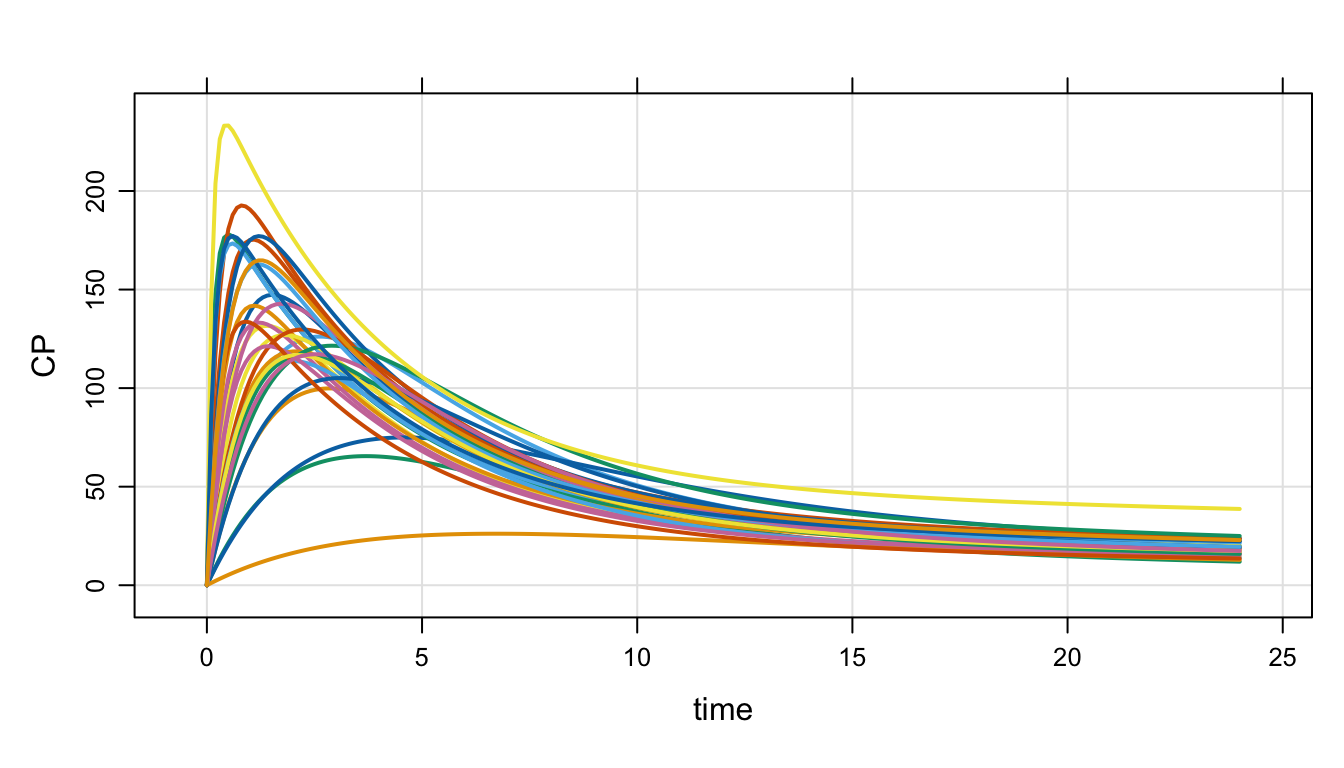
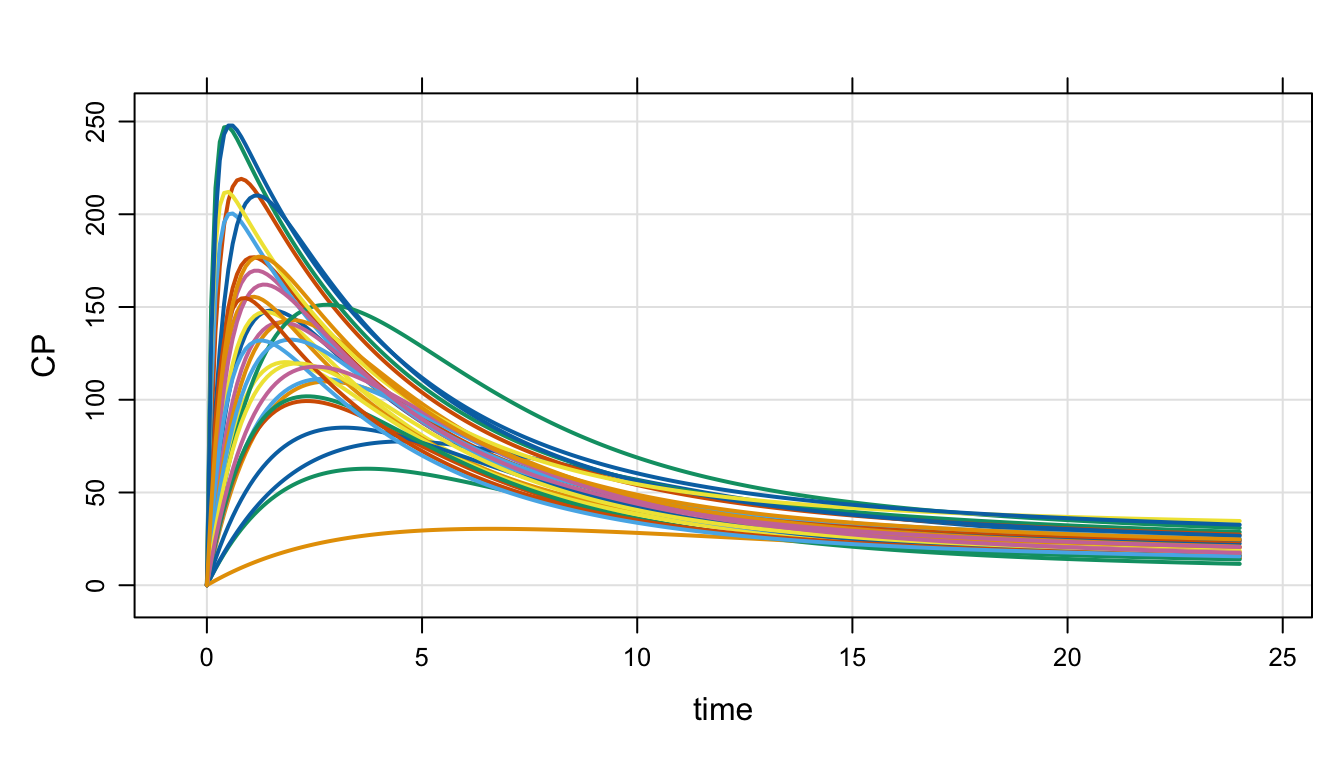
update book build

Changed region(s): [[0.0625, 0.1562, 0.9688, 0.75], [0.0625, 0.2188, 0.0938, 0.3125], [0.0625, 0.125, 0.0938, 0.1875]]

diff --git a/docs/replicate.html b/docs/replicate.html
@@ -343,12 +343,12 @@ pre > code.sourceCode > span > a:first-child::before { text-decoration: underlin
 <div class="sourceCode cell-code" id="cb8"><pre class="sourceCode r code-with-copy"><code class="sourceCode r"><span id="cb8-1"><a href="#cb8-1" aria-hidden="true" tabindex="-1"></a><span class="fu">sim</span>(<span class="dv">2</span>, mod, data) <span class="sc">%&gt;%</span> <span class="fu">filter</span>(TIME <span class="sc">%in%</span> <span class="fu">c</span>(<span class="dv">0</span>,<span class="dv">24</span>)) <span class="sc">%&gt;%</span> <span class="fu">head</span>()</span></code><button title="Copy to Clipboard" class="code-copy-button"><i class="bi"></i></button></pre></div>
 <div class="cell-output cell-output-stdout">
 <pre><code>  ID TIME       CL     IPRED         Y    WT DOSE irep
-1  1    0 4.918962  52.82136  48.23129 71.62   10    2
-2  1   24 4.918962  52.82136  45.92708 71.62   10    2
-3  2    0 6.242479 101.26773  99.91396 71.62   25    2
-4  2   24 6.242479 101.26773  91.35761 71.62   25    2
-5  3    0 2.037665 125.38161 121.74427 59.74   10    2
-6  3   24 2.037665 125.38161 114.49744 59.74   10    2</code></pre>
+1  1    0 4.145285  50.60451  63.50874 72.53   10    2
+2  1   24 4.145285  50.60451  36.33340 72.53   10    2
+3  2    0 2.124093 370.72296 369.87872 72.53   25    2
+4  2   24 2.124093 370.72296 348.49494 72.53   25    2
+5  3    0 3.884892  69.18339  48.38359 68.31   10    2
+6  3   24 3.884892  69.18339  57.88598 68.31   10    2</code></pre>
 </div>
 </div>
 <p>Now, call <code>lapply()</code> a simulate the desired number of replicates, setting the seed first to ensure reproducibility</p>
@@ -398,12 +398,12 @@ pre > code.sourceCode > span > a:first-child::before { text-decoration: underlin
 <pre><code># A tibble: 6 × 3
    irep  DOSE Median
   &lt;int&gt; &lt;dbl&gt;  &lt;dbl&gt;
-1     1    10   83.0
-2     1    25  206. 
-3     2    10   85.4
-4     2    25  206. 
-5     3    10   83.7
-6     3    25  214. </code></pre>
+1     1    10   82.8
+2     1    25  210. 
+3     2    10   84.5
+4     2    25  207. 
+5     3    10   86.1
+6     3    25  209. </code></pre>
 </div>
 </div>
 </section>
@@ -511,16 +511,16 @@ pre > code.sourceCode > span > a:first-child::before { text-decoration: underlin
 <pre><code># A tibble: 86,000 × 8
       ID  TIME    CL IPRED     Y    WT  DOSE  irep
    &lt;dbl&gt; &lt;dbl&gt; &lt;dbl&gt; &lt;dbl&gt; &lt;dbl&gt; &lt;dbl&gt; &lt;dbl&gt; &lt;dbl&gt;
- 1     1   0    2.40  120.  121.  71.6    10    23
- 2     1   0.1  2.40  133.  149.  71.6    10    23
- 3     1   0.2  2.40  145.  103.  71.6    10    23
- 4     1   0.3  2.40  156.  174.  71.6    10    23
- 5     1   0.4  2.40  165.  144.  71.6    10    23
- 6     1   0.5  2.40  174.  215.  71.6    10    23
- 7     1   0.6  2.40  182.  119.  71.6    10    23
- 8     1   0.7  2.40  190.  226.  71.6    10    23
- 9     1   0.8  2.40  196.  112.  71.6    10    23
-10     1   0.9  2.40  202.  226.  71.6    10    23
+ 1     1   0    2.08  146.  147.  72.5    10    23
+ 2     1   0.1  2.08  159.  178.  72.5    10    23
+ 3     1   0.2  2.08  170.  121.  72.5    10    23
+ 4     1   0.3  2.08  181.  203.  72.5    10    23
+ 5     1   0.4  2.08  190.  166.  72.5    10    23
+ 6     1   0.5  2.08  199.  246.  72.5    10    23
+ 7     1   0.6  2.08  207.  136.  72.5    10    23
+ 8     1   0.7  2.08  215.  256.  72.5    10    23
+ 9     1   0.8  2.08  221.  126.  72.5    10    23
+10     1   0.9  2.08  227.  253.  72.5    10    23
 # ℹ 85,990 more rows</code></pre>
 </div>
 </div>

diff --git a/docs/model-object.html b/docs/model-object.html
@@ -375,7 +375,7 @@ pre > code.sourceCode > span > a:first-child::before { text-decoration: underlin
 -----------------  source: test.mod  -----------------
 
   project: /Users/kyleb/git...ok/book-model
-  shared object: test_mod-so-176722038dd98 
+  shared object: test_mod-so-3fd93c203d08 
 
   time:          start: 0 end: 24 delta: 1
                  add: &lt;none&gt;
@@ -640,10 +640,10 @@ $project
 [1] "/Users/kyleb/git/kylebaron/intro-to-mrgsolve-uofm/book/book-model"
 
 $soloc
-[1] "/private/var/folders/zv/v6tkdhrn1_bb1ndrc0c0j31w0000gp/T/RtmpRLRYH8/mrgsolve-so-1.5.1.9001-aarch64-apple-darwin20/test_mod"
+[1] "/private/var/folders/zv/v6tkdhrn1_bb1ndrc0c0j31w0000gp/T/RtmpXovInx/mrgsolve-so-1.5.1.9003-aarch64-apple-darwin20/test_mod"
 
 $sodll
-[1] "/private/var/folders/zv/v6tkdhrn1_bb1ndrc0c0j31w0000gp/T/RtmpRLRYH8/mrgsolve-so-1.5.1.9001-aarch64-apple-darwin20/test_mod/test_mod-so-176722038dd98.so"
+[1] "/private/var/folders/zv/v6tkdhrn1_bb1ndrc0c0j31w0000gp/T/RtmpXovInx/mrgsolve-so-1.5.1.9003-aarch64-apple-darwin20/test_mod/test_mod-so-3fd93c203d08.so"
 
 $cfile
 [1] "/Users/kyleb/git/kylebaron/intro-to-mrgsolve-uofm/book/book-model/test.mod"
@@ -662,10 +662,10 @@ $shlib$compiled
 [1] TRUE
 
 $shlib$version
-[1] '1.5.1.9001'
+[1] '1.5.1.9003'
 
 $shlib$source
-[1] "/private/var/folders/zv/v6tkdhrn1_bb1ndrc0c0j31w0000gp/T/RtmpRLRYH8/mrgsolve-so-1.5.1.9001-aarch64-apple-darwin20/test_mod/test_mod-mread-source.cpp"
+[1] "/private/var/folders/zv/v6tkdhrn1_bb1ndrc0c0j31w0000gp/T/RtmpXovInx/mrgsolve-so-1.5.1.9003-aarch64-apple-darwin20/test_mod/test_mod-mread-source.cpp"
 
 $shlib$neq
 [1] 2
@@ -787,7 +787,7 @@ $hmax
 [1] 0
 
 $envir
-&lt;environment: 0x11b8acf20&gt;
+&lt;environment: 0x10cf6a8d0&gt;
 
 $plugins
 [1] "base"

diff --git a/docs/data-set.html b/docs/data-set.html
@@ -516,12 +516,12 @@ CL Q V2 V3 KA ETA(1) ETA(2) ETA(3) IPRED</code></pre>
 <span id="cb26-3"><a href="#cb26-3" aria-hidden="true" tabindex="-1"></a><span class="fu">head</span>(idata)</span></code><button title="Copy to Clipboard" class="code-copy-button"><i class="bi"></i></button></pre></div>
 <div class="cell-output cell-output-stdout">
 <pre><code>  ID        WT
-1  1  69.77994
-2  2  85.60722
-3  3 108.33677
-4  4  78.46498
-5  5  66.92838
-6  6  61.81225</code></pre>
+1  1 101.70618
+2  2  84.92973
+3  3  50.73833
+4  4  79.50030
+5  5  86.58689
+6  6  86.48000</code></pre>
 </div>
 </div>
 <p>We have two columns</p>
@@ -557,14 +557,14 @@ Dim:    72200 x 5
 Time:   0 to 72 
 ID:     100 
     ID time    CL   IPRED    WT
-1:   1  0.0 9.472 0.00000 69.78
-2:   1  0.0 9.472 0.00000 69.78
-3:   1  0.1 9.472 0.03036 69.78
-4:   1  0.2 9.472 0.05883 69.78
-5:   1  0.3 9.472 0.08551 69.78
-6:   1  0.4 9.472 0.11052 69.78
-7:   1  0.5 9.472 0.13393 69.78
-8:   1  0.6 9.472 0.15585 69.78</code></pre>
+1:   1  0.0 14.84 0.00000 101.7
+2:   1  0.0 14.84 0.00000 101.7
+3:   1  0.1 14.84 0.03001 101.7
+4:   1  0.2 14.84 0.05749 101.7
+5:   1  0.3 14.84 0.08263 101.7
+6:   1  0.4 14.84 0.10563 101.7
+7:   1  0.5 14.84 0.12665 101.7
+8:   1  0.6 14.84 0.14584 101.7</code></pre>
 </div>
 <div class="sourceCode cell-code" id="cb33"><pre class="sourceCode r code-with-copy"><code class="sourceCode r"><span id="cb33-1"><a href="#cb33-1" aria-hidden="true" tabindex="-1"></a><span class="fu">plot</span>(out)</span></code><button title="Copy to Clipboard" class="code-copy-button"><i class="bi"></i></button></pre></div>
 <div class="cell-output-display">
